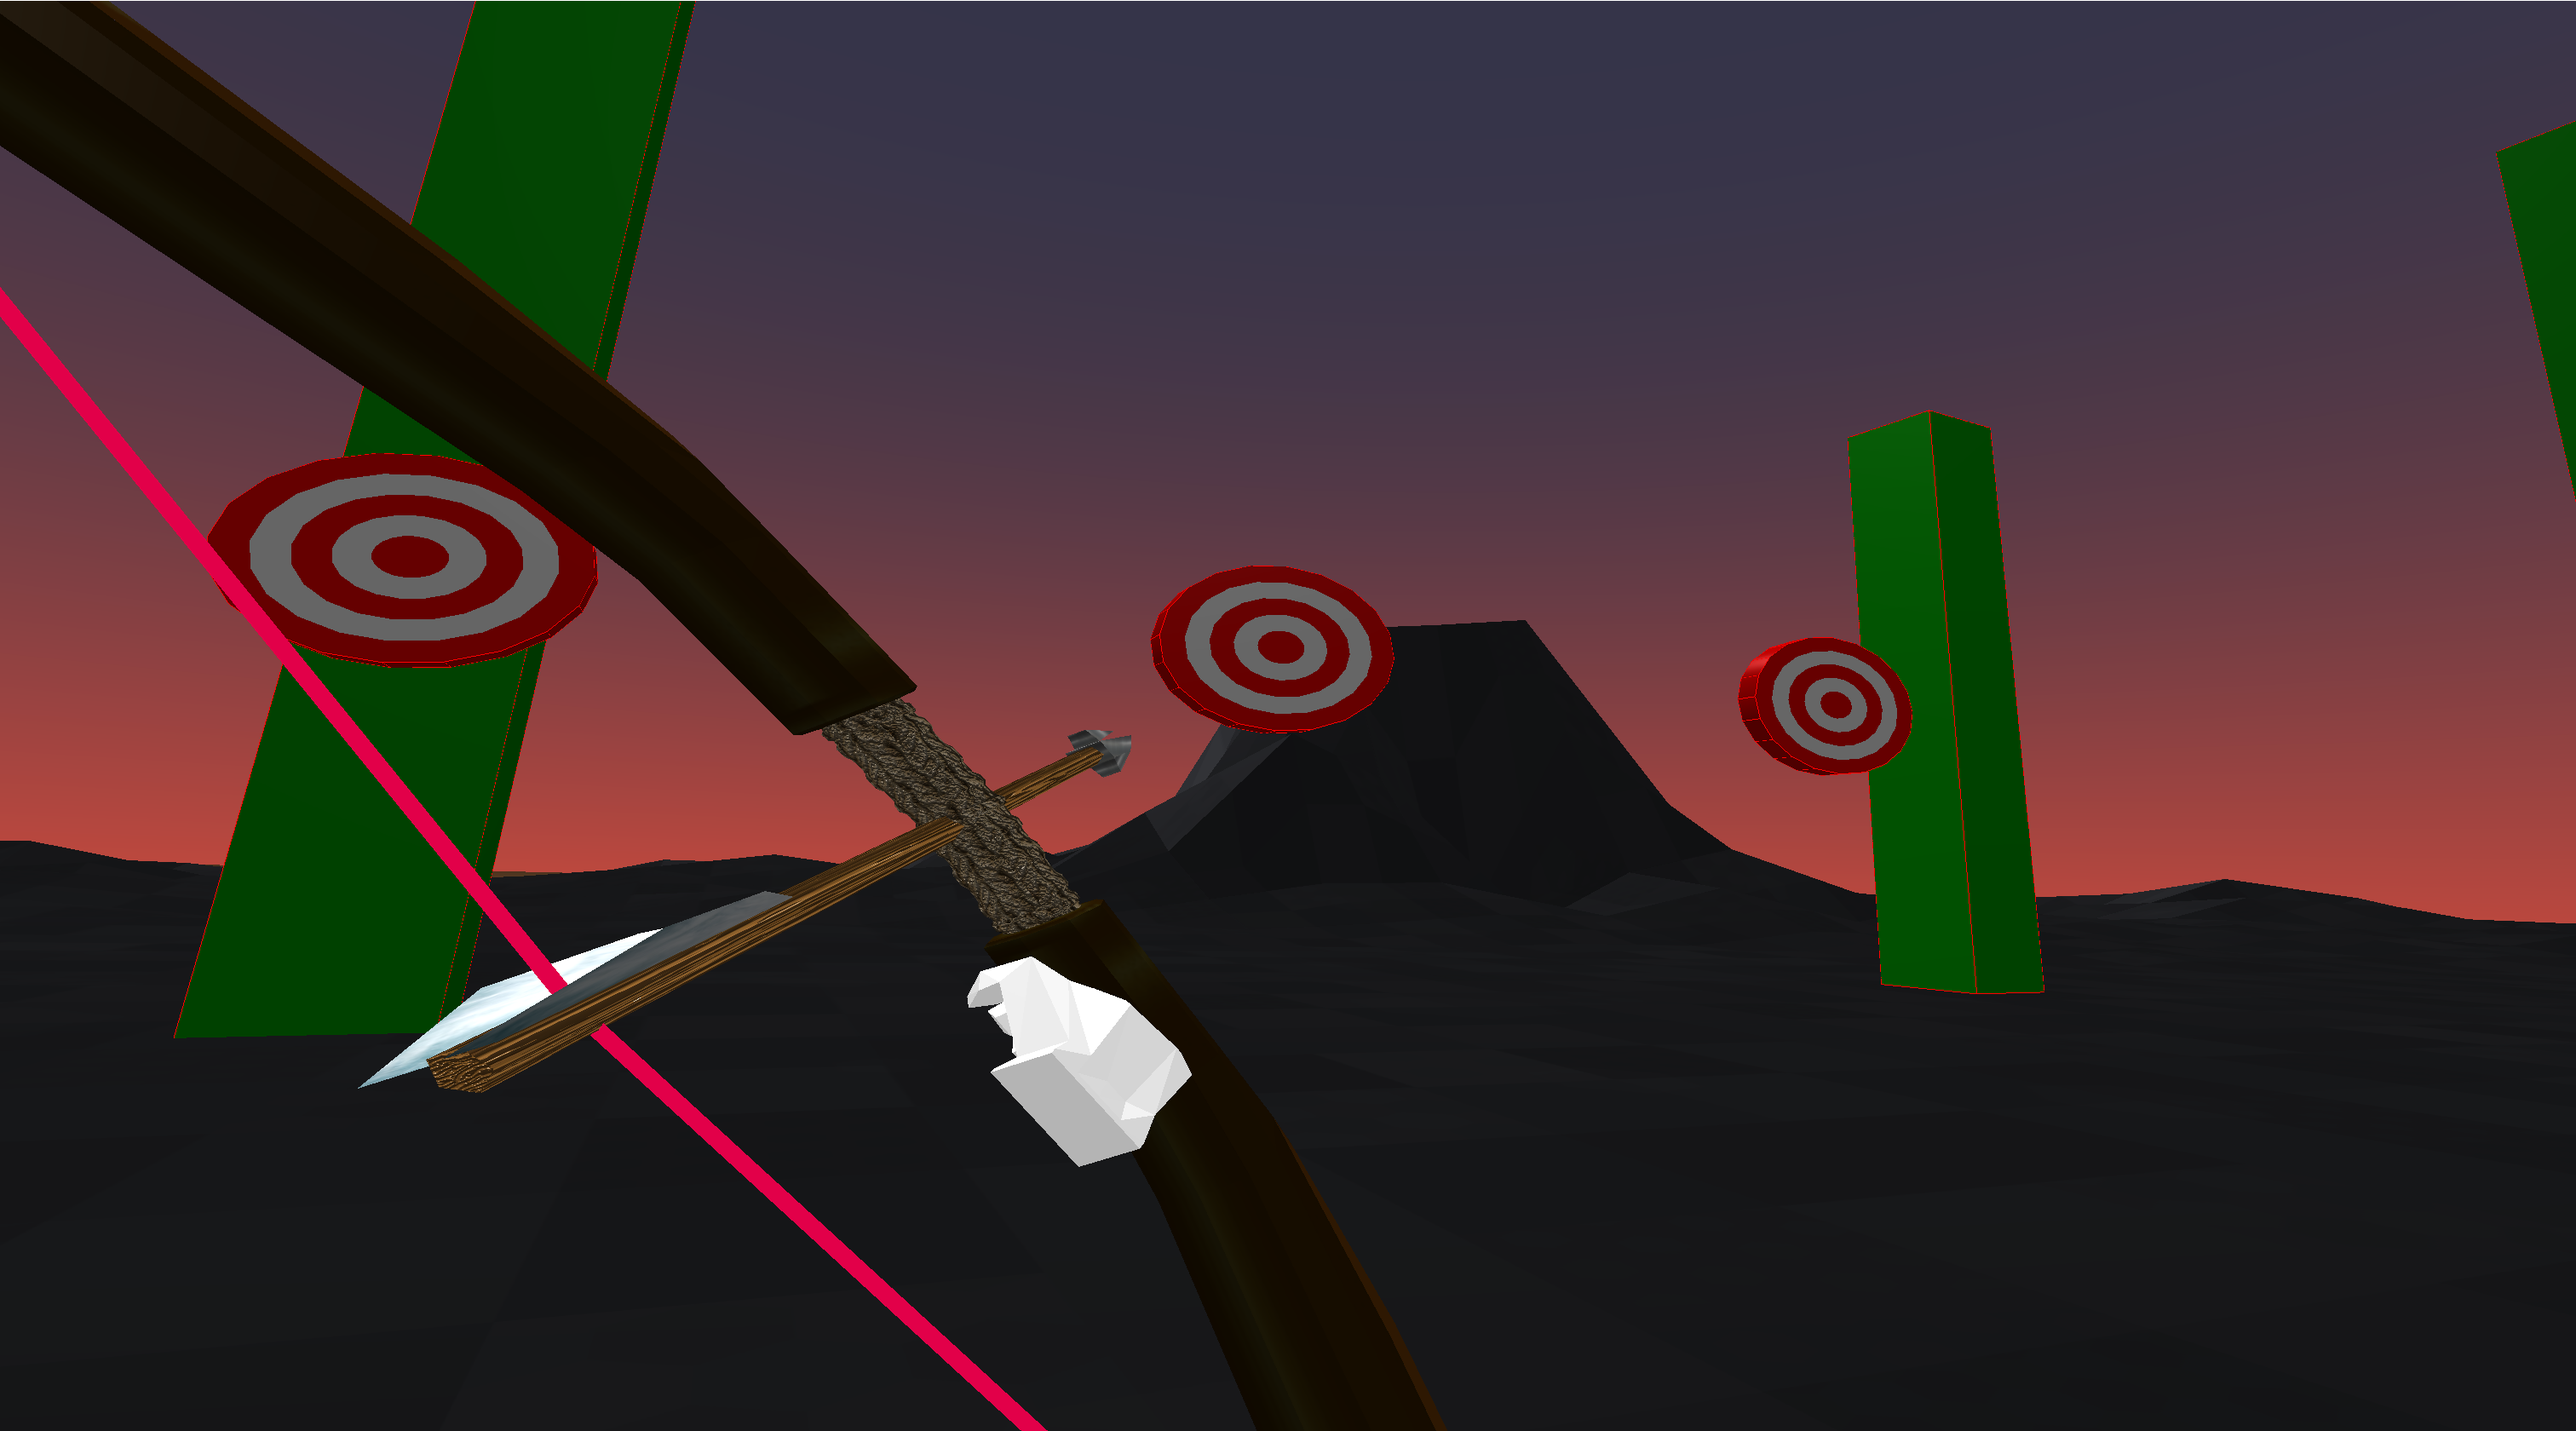
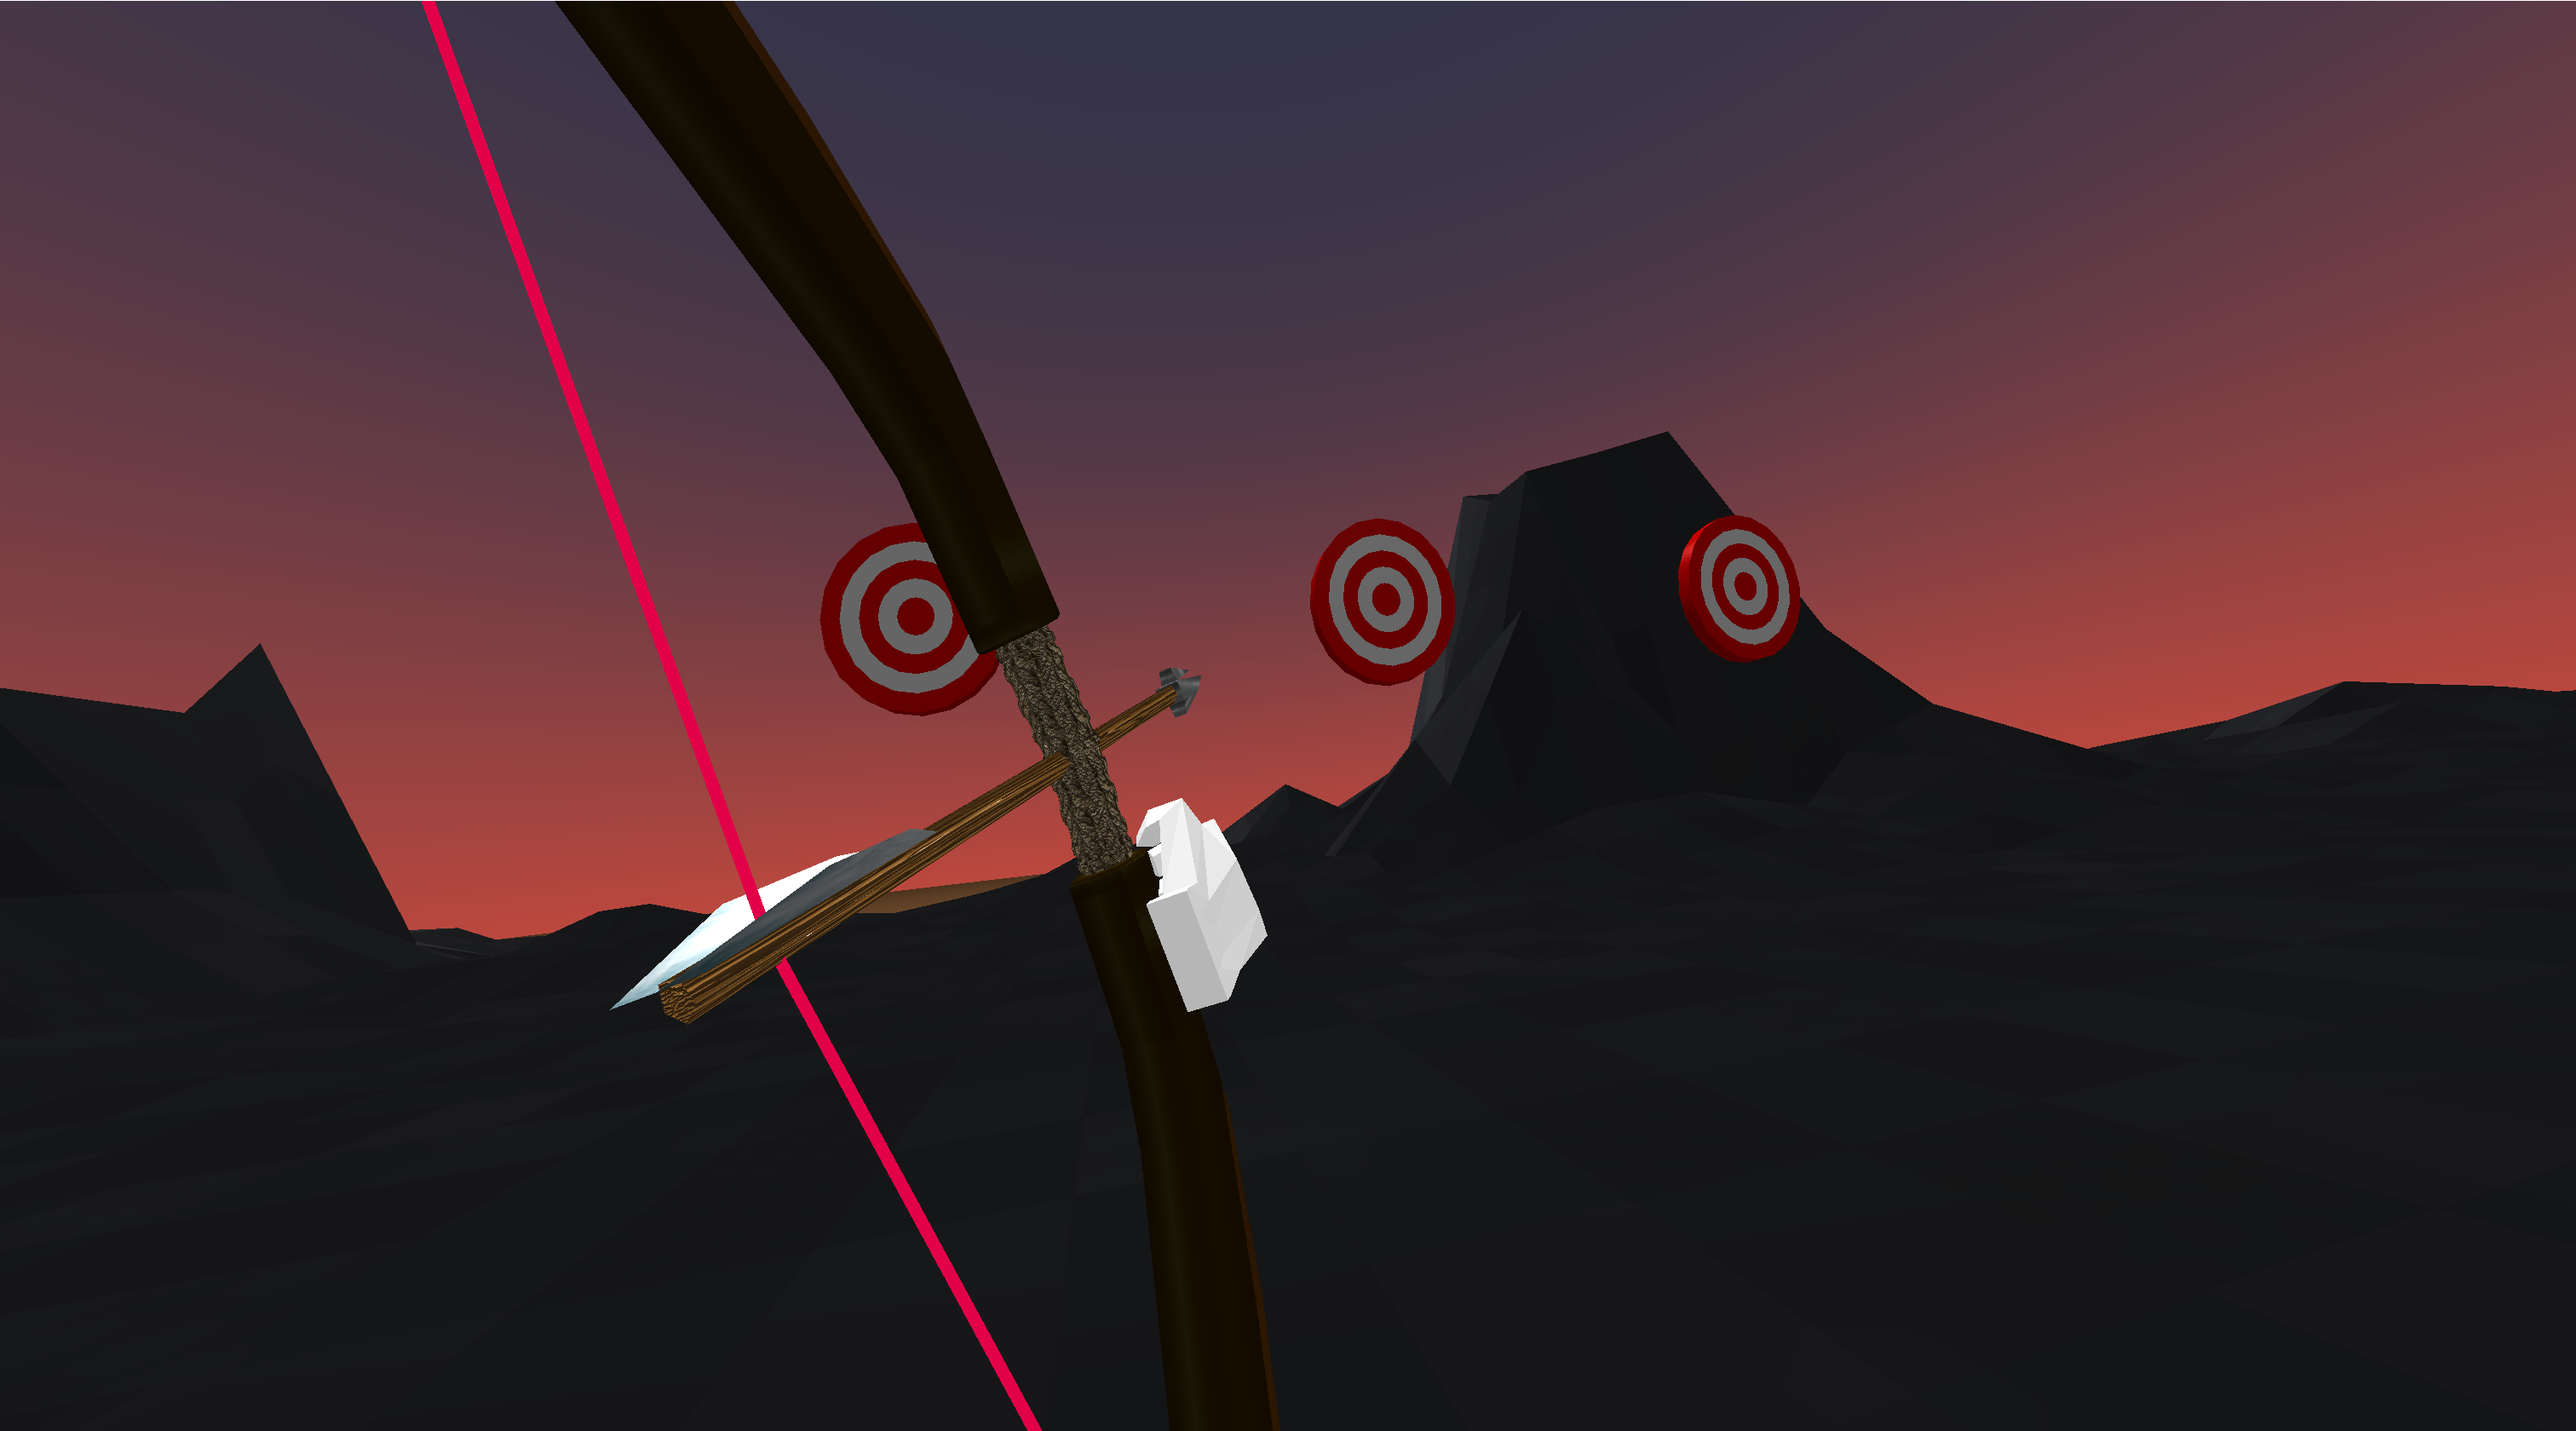
capture, favico

diff --git a/index.html b/index.html
@@ -19,7 +19,7 @@
 </head>
 <body>
 
-  <a-scene id="scene" physics="debug:true" vr-mode-ui keyboard-shortcuts pool__arrow="mixin: arrowpool; size : 6;">
+  <a-scene id="scene" physics vr-mode-ui keyboard-shortcuts pool__arrow="mixin: arrowpool; size : 6;">
 
   <!-- Asset Management System -->
     <a-assets>
@@ -45,7 +45,7 @@
 
     <!-- Environment -->
     <a-entity id="sky"  geometry="primitive: sphere; radius: 65;" material="shader: skyGradient; colorTop: #353449; colorBottom: #BC483E; side: back"></a-entity>
-    <a-entity ground position="4 0.01 0"></a-entity>
+    <a-entity ground position="4 0.1 5"></a-entity>
     <a-plane color="#614126" static-body position="0 0 0" rotation="-90 0 0"  width="1000" height="1000"></a-plane>
 
     <!-- Lights-->
